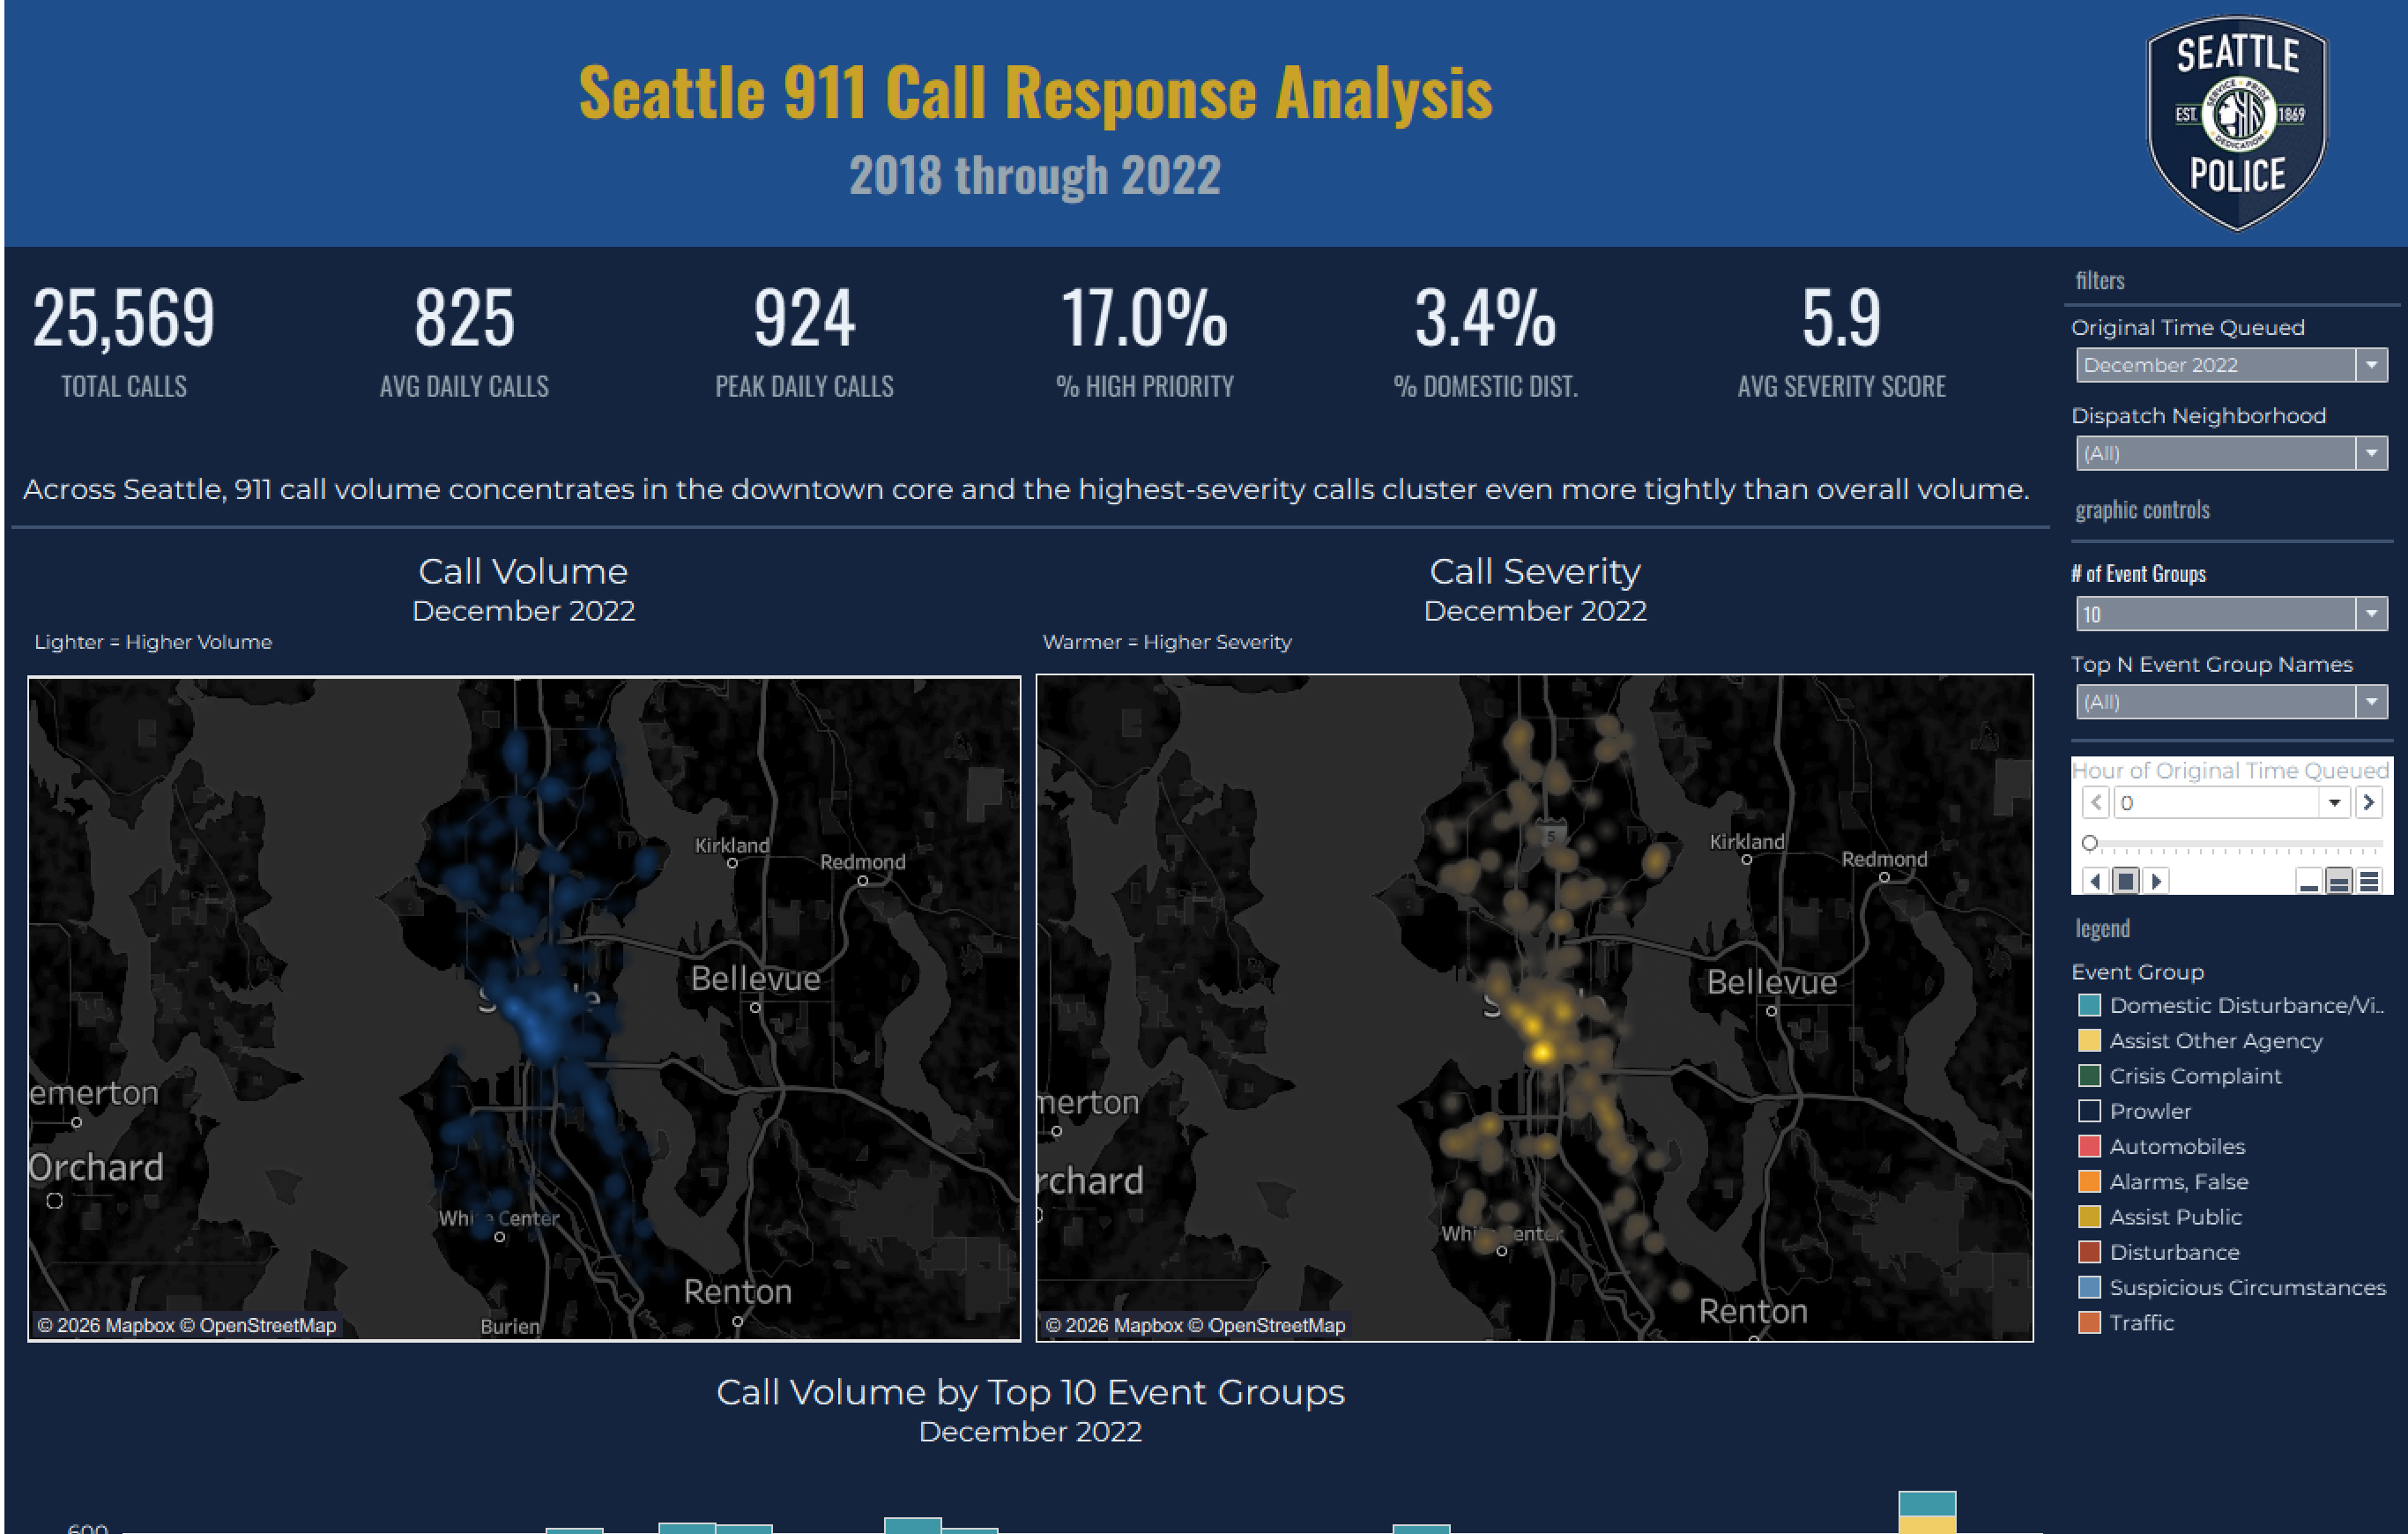
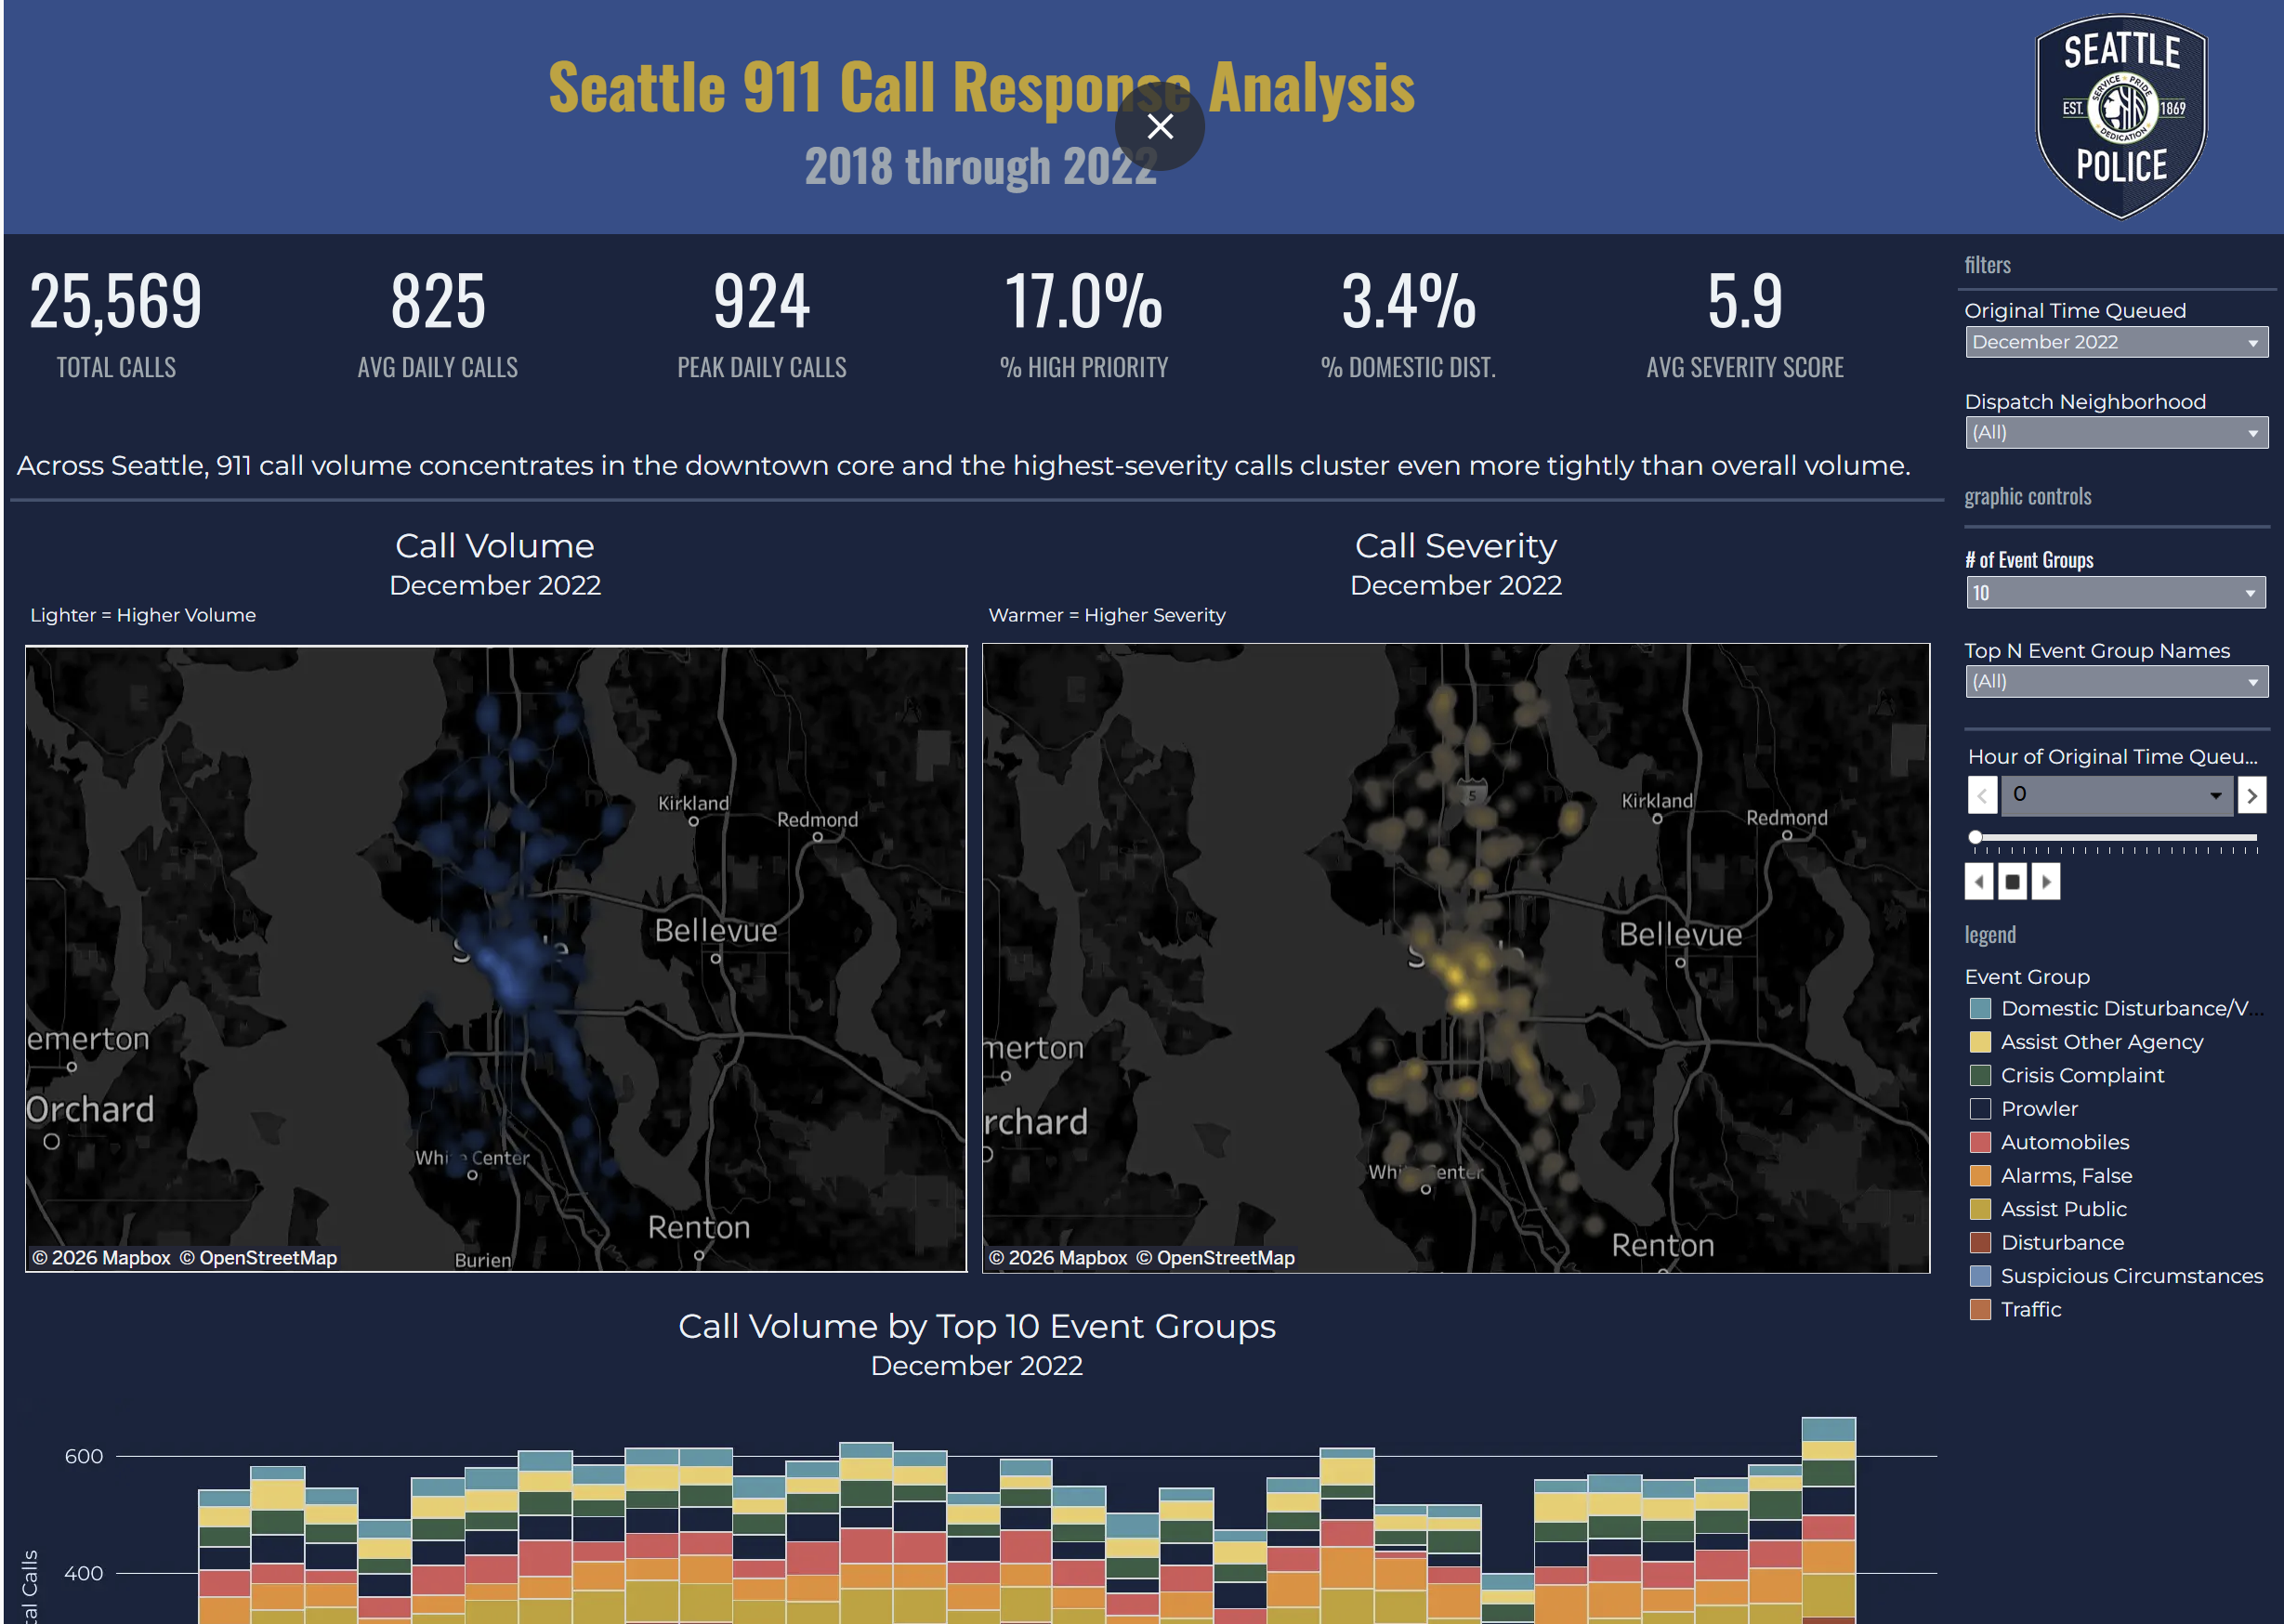
Initial

diff --git a/README.md b/README.md
@@ -4,7 +4,7 @@
 
 [**▶ View the live dashboard on Tableau Public**](https://public.tableau.com/app/profile/obie.w.lawrence/viz/Seattle911CallResponseAnalysis/SPDCallData)
 
-![Seattle 911 Call Response Analysis dashboard](screenshots/dashboard.png)
+![Seattle 911 Call Response Analysis dashboard](screenshots/seattle-911-response-1.png)
 
 ---
 